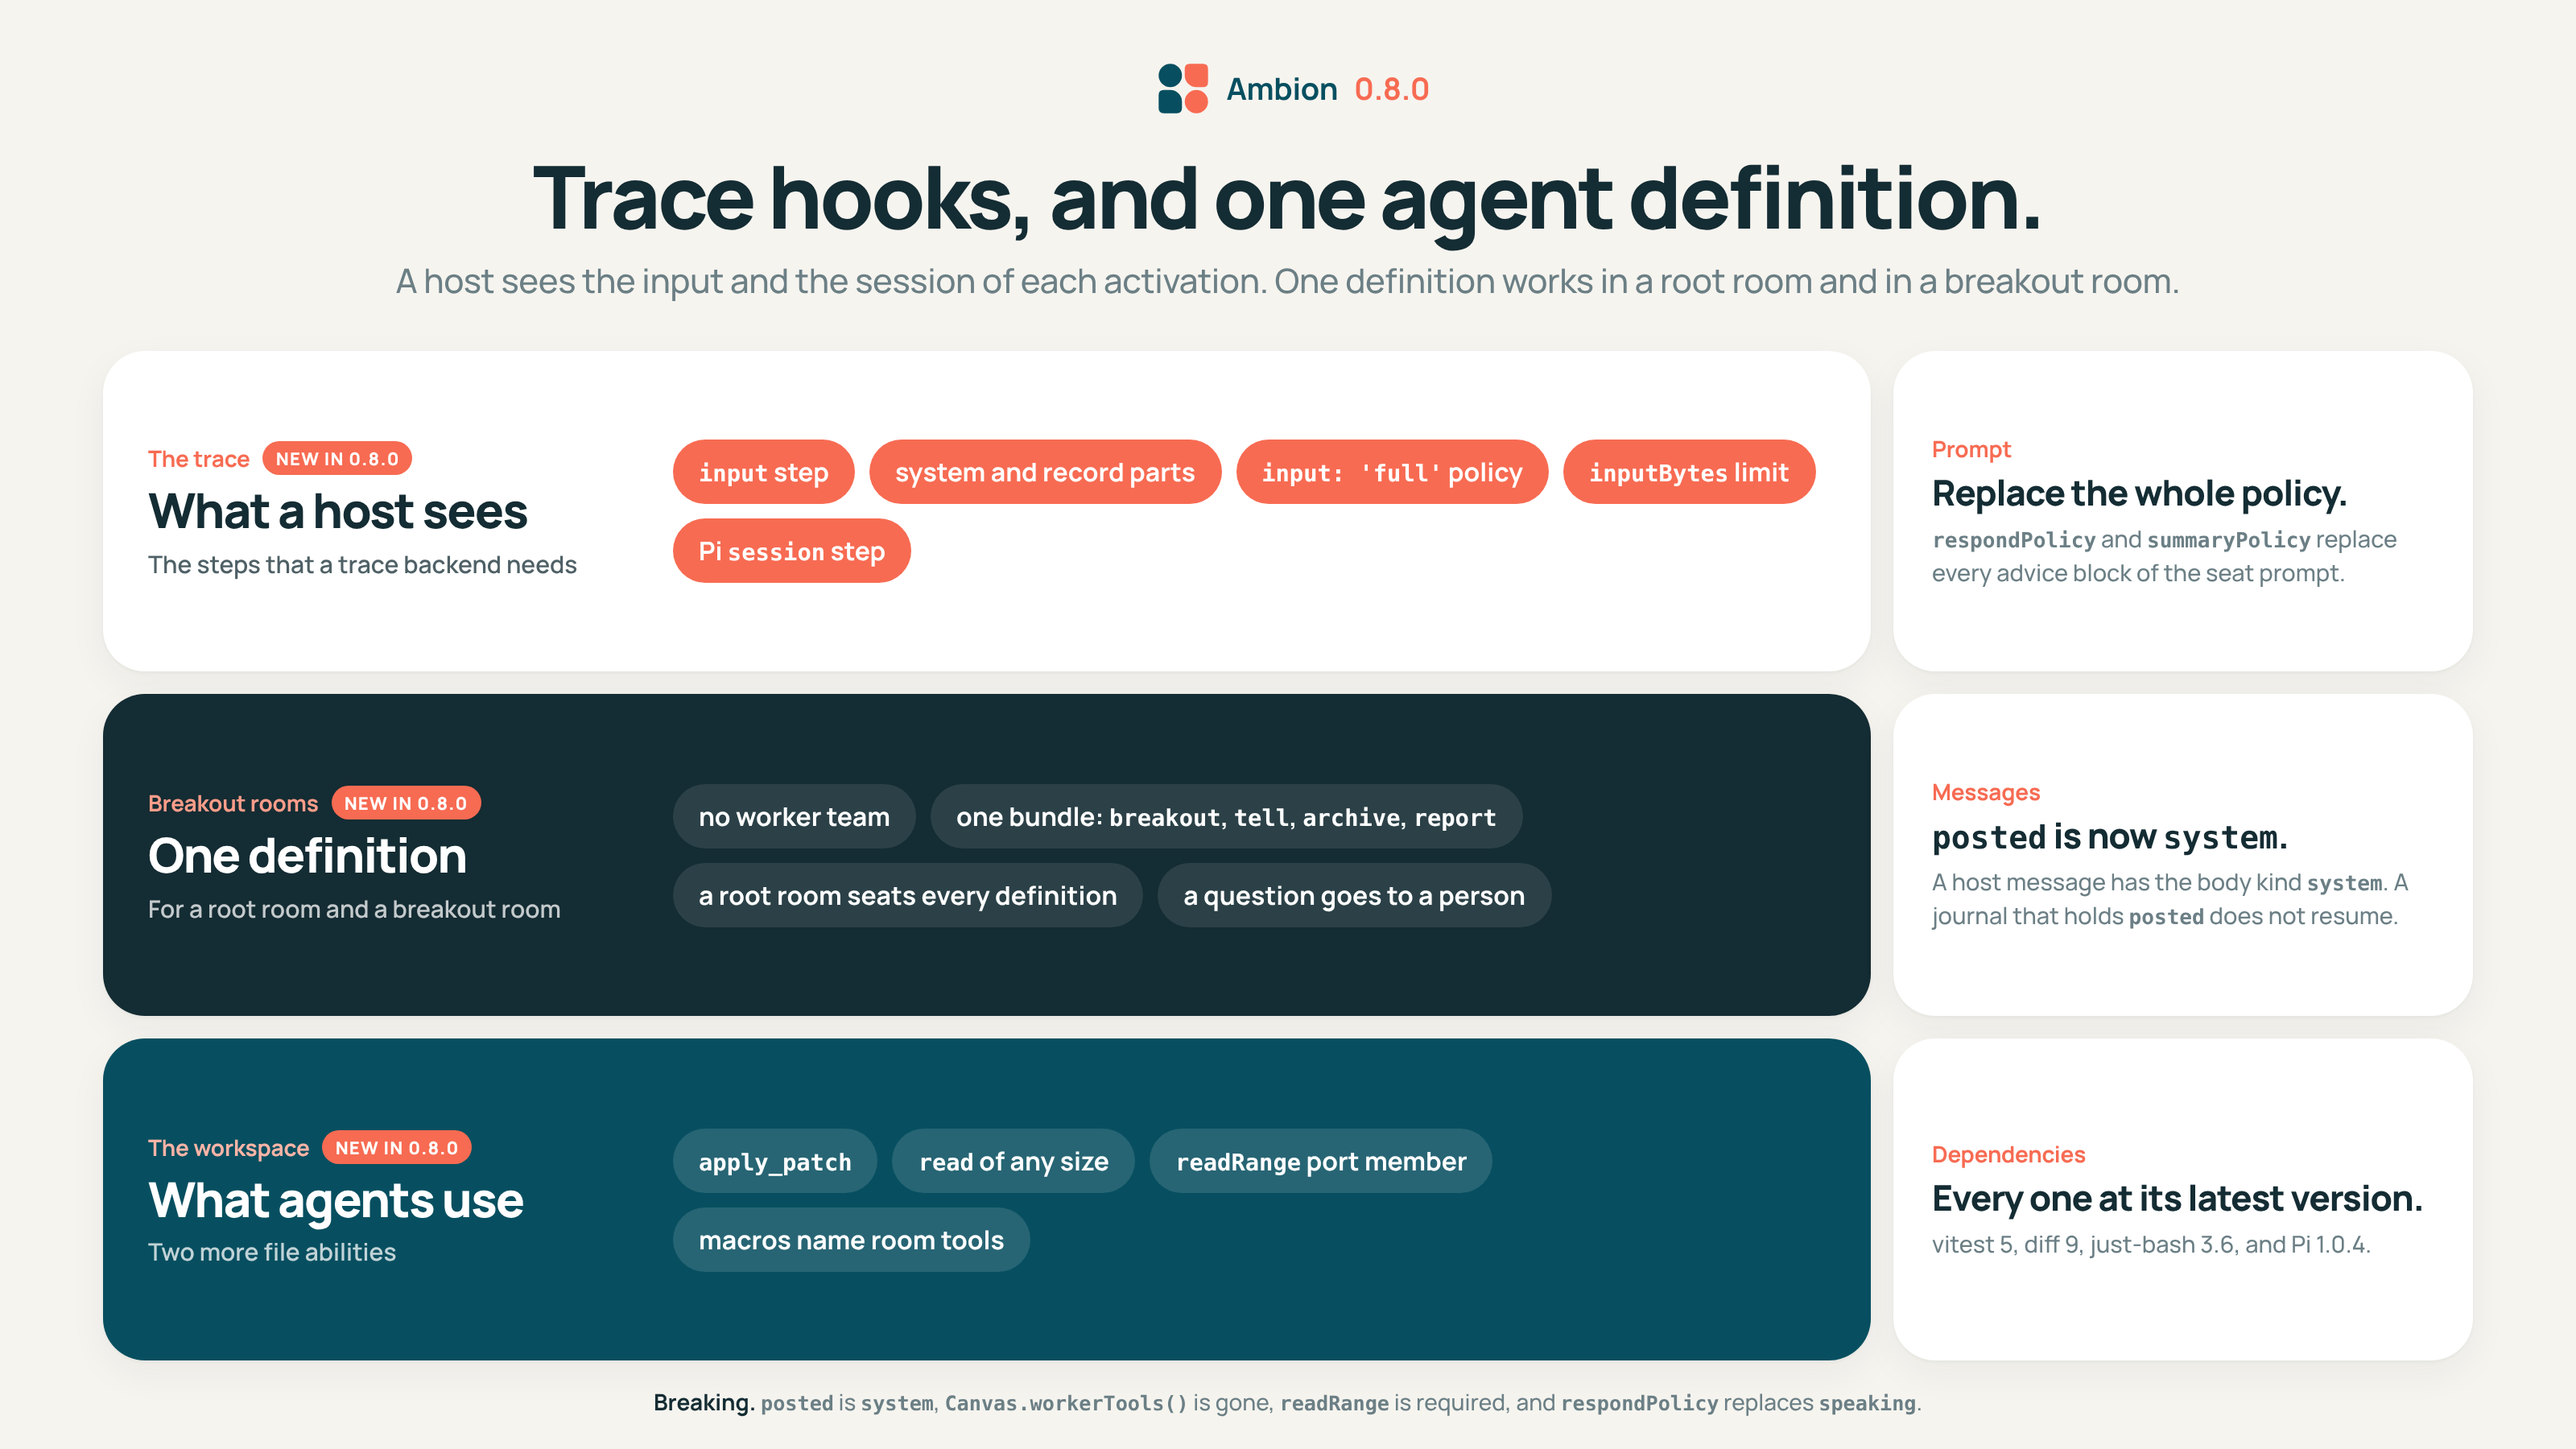
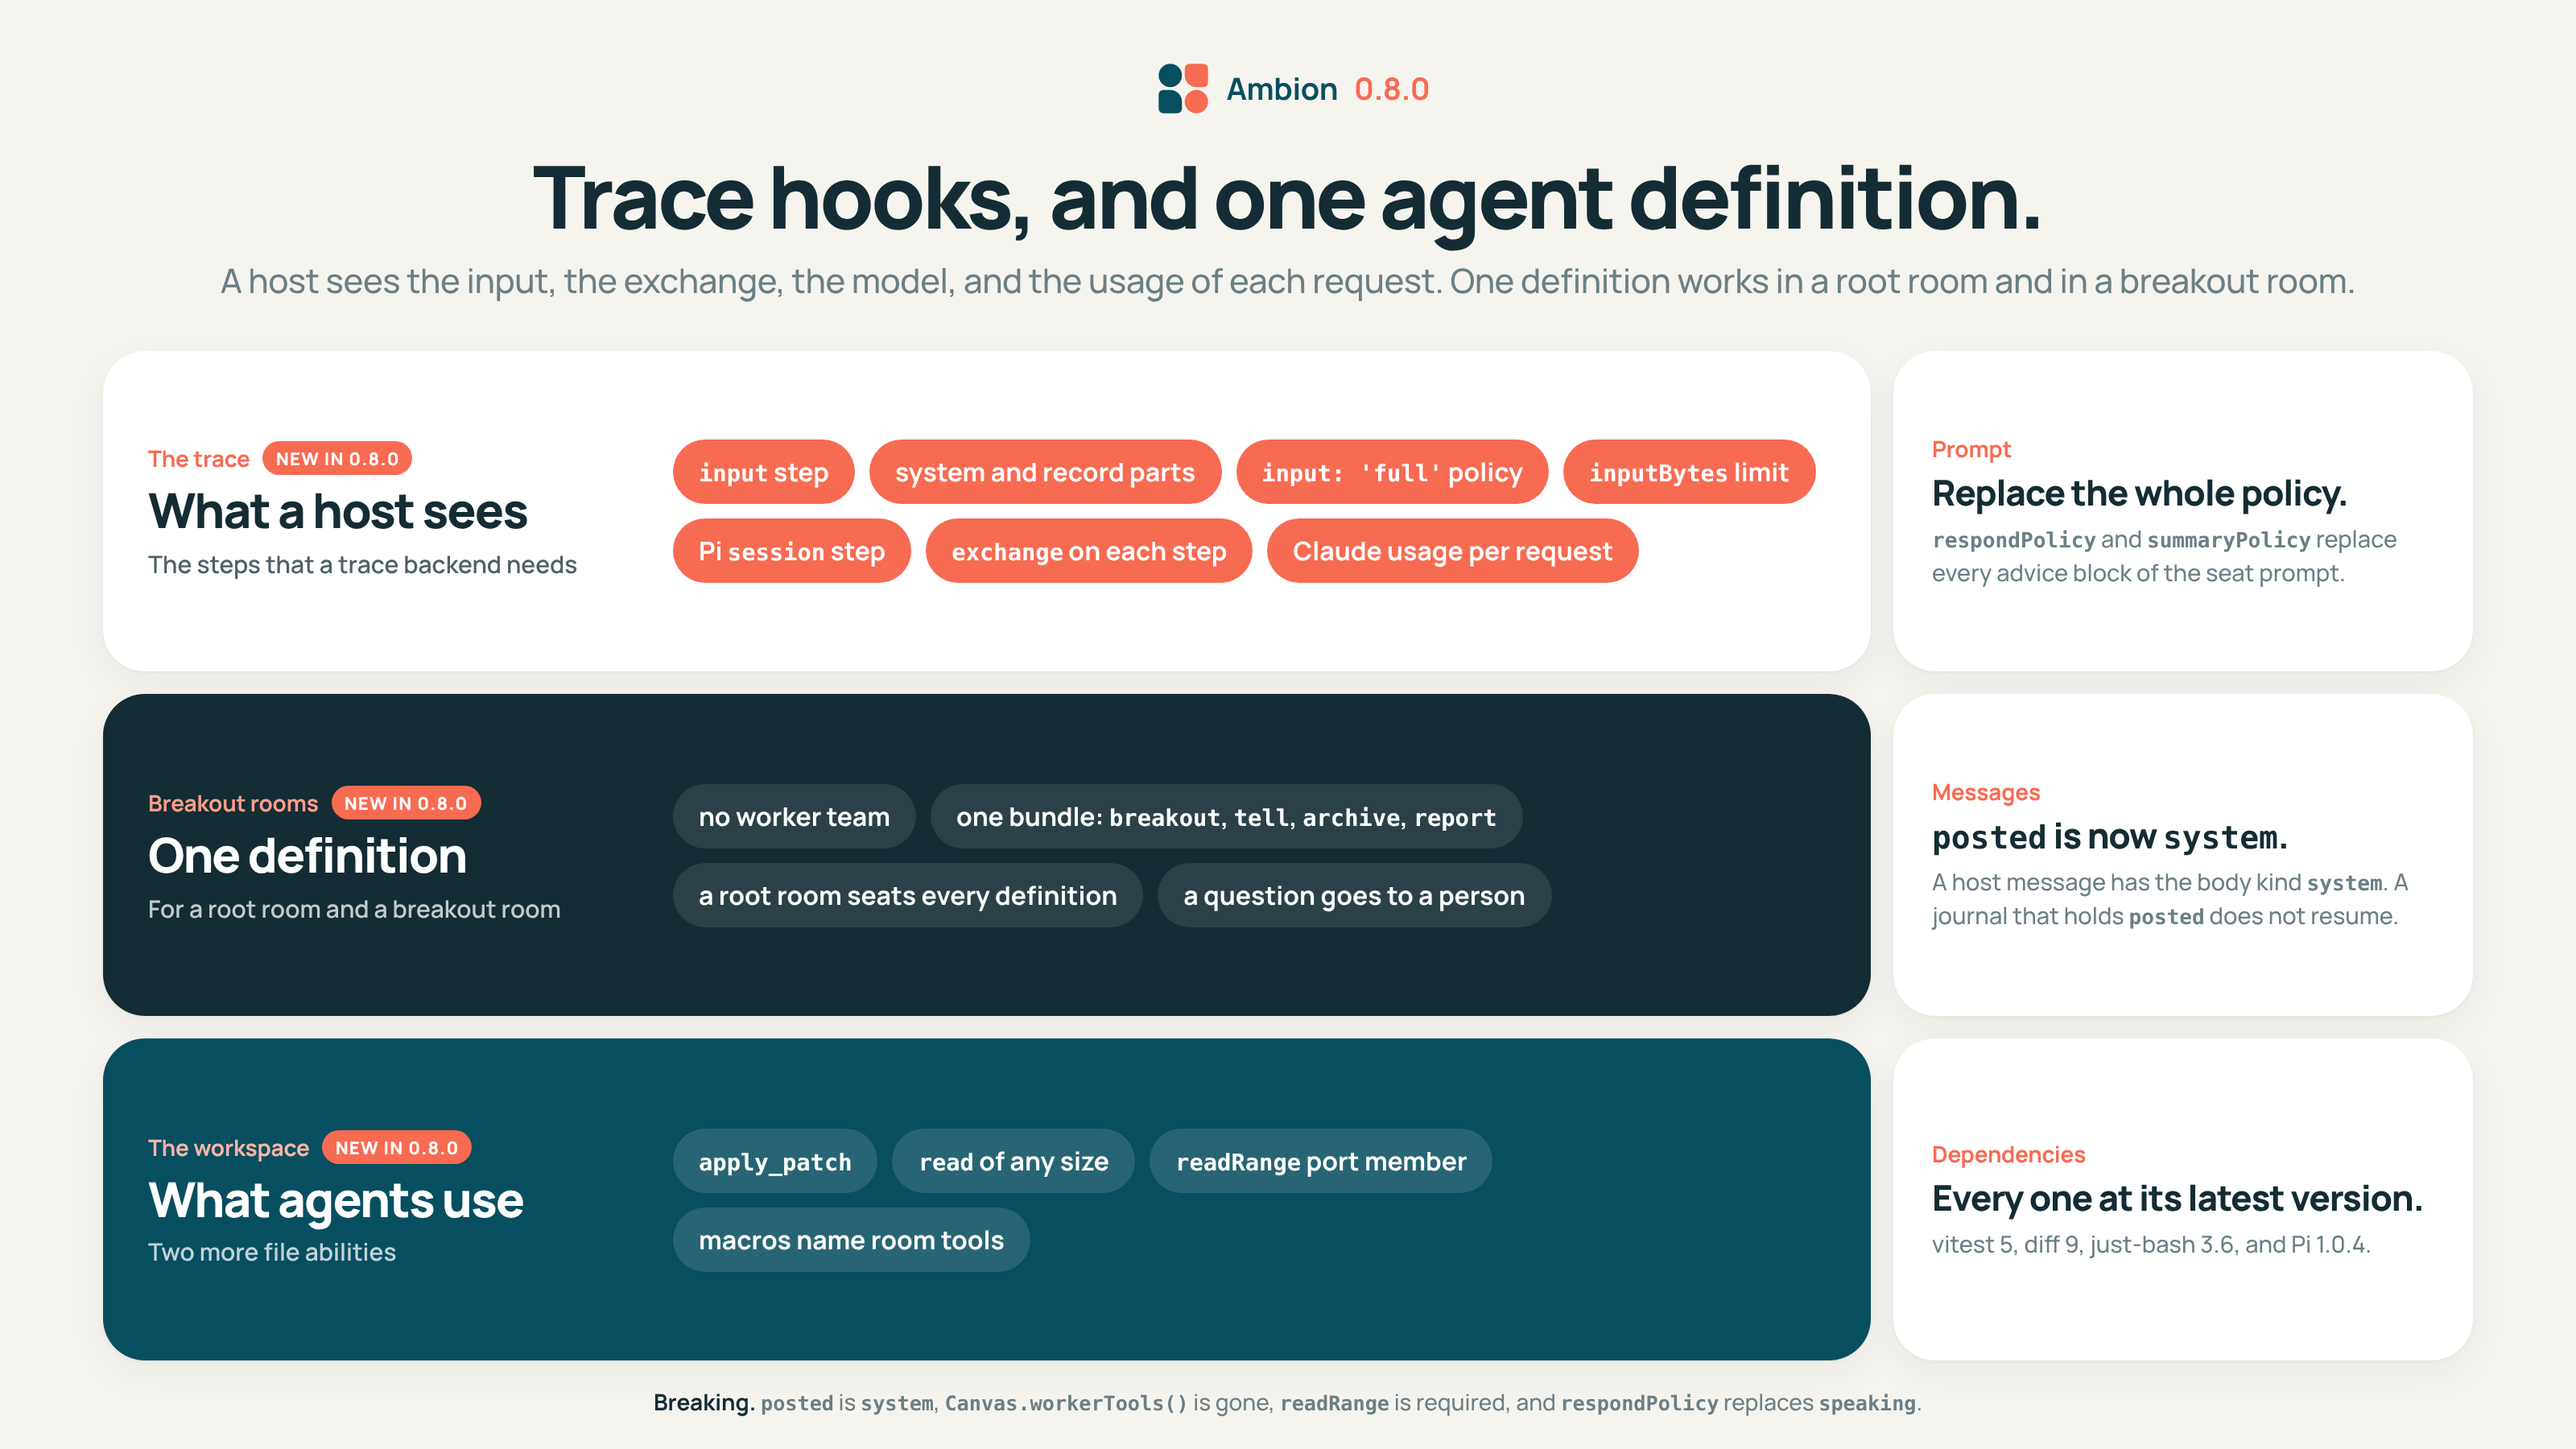
Name the exchange and the Claude usage in the 0.8.0 summary image
Claude-Session: https://claude.ai/code/session_01LE7ArcA4V3Tkd2fWso1k5C

Changed region(s): [[0.0938, 0.1867, 0.9062, 0.2178], [0.3438, 0.3422, 0.6562, 0.4044]]

diff --git a/CHANGELOG.md b/CHANGELOG.md
@@ -2,7 +2,7 @@
 
 ## 0.8.0 (2026-10-07)
 
-<img alt="Ambion 0.8.0: trace hooks and one agent definition. A host receives the steps that a trace backend needs, and one agent definition works in a root room and in a breakout room. Trace: an input step with the system part and the record of each pass, the input policy and the inputBytes limit, and a session step from the Pi executor with its model. Breakout rooms: no worker team, one bundle of breakout, tell, archive, and report, and a root room that seats every definition. Workspace: the apply_patch tool, and read of a text file of any size through the readRange member of the port. Seat prompt: respondPolicy and summaryPolicy replace every advice block, and a macro names a room tool. Dependencies: every one at its latest version. Breaking: posted is system, Canvas.workerTools() is gone, readRange is required, and respondPolicy replaces speaking." src="docs/assets/ambion-0.8.0.png" width="800">
+<img alt="Ambion 0.8.0: trace hooks and one agent definition. A host receives the steps that a trace backend needs, and one agent definition works in a root room and in a breakout room. Trace: an input step with the system part and the record of each pass, the input policy and the inputBytes limit, a session step from the Pi executor with its model, the exchange on each step, and one Claude usage step for each model request. Breakout rooms: no worker team, one bundle of breakout, tell, archive, and report, and a root room that seats every definition. Workspace: the apply_patch tool, and read of a text file of any size through the readRange member of the port. Seat prompt: respondPolicy and summaryPolicy replace every advice block, and a macro names a room tool. Dependencies: every one at its latest version. Breaking: posted is system, Canvas.workerTools() is gone, readRange is required, and respondPolicy replaces speaking." src="docs/assets/ambion-0.8.0.png" width="800">
 
 **0.8.0 gives a host the trace hooks that a trace backend needs, and one
 agent definition for root rooms and breakout rooms.** A `TraceLogger` can
